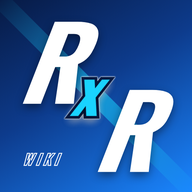
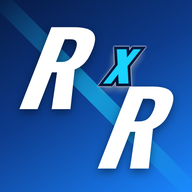
キャラの強いところ・弱いところ、スクリプトのヘッダー位置合わせ、アイコンの調整
- キャラに「強いところ」「弱いところ」を追加し、キャラ詳細に表示
- 縦長のイラストをヘッダーに出すとき、サムネイルの切り抜き位置（顔のあたり）が見えるように位置を合わせる
- アイコン：WIKI をなくし、x を右上にずらす

Claude-Session: https://claude.ai/code/session_01N1eAzdvEhM9HvqUc1xMepk

diff --git a/index.html b/index.html
@@ -66,7 +66,7 @@ button{cursor:pointer}
 
 /* ===== header / hero ===== */
 header.top{position:relative;color:#fff}
-.hero{position:relative;min-height:220px;background-color:#16233f;background-image:linear-gradient(100deg,rgba(5,16,42,.88) 0,rgba(10,30,72,.5) 40%,rgba(10,30,72,0) 70%),var(--hero,none);background-size:cover;background-position:center 45%;overflow:hidden}
+.hero{position:relative;min-height:220px;background-color:#16233f;background-image:linear-gradient(100deg,rgba(5,16,42,.88) 0,rgba(10,30,72,.5) 40%,rgba(10,30,72,0) 70%),var(--hero,none);background-size:cover;background-position:center,var(--heropos,center 45%);overflow:hidden}
 .hero::after{content:"";position:absolute;left:0;right:0;bottom:0;height:90px;background:linear-gradient(180deg,transparent,rgba(20,90,200,.6))}
 .petals{position:absolute;inset:0;pointer-events:none;opacity:.85}
 .brand{position:relative;z-index:1;max-width:1240px;margin:0 auto;padding:26px 20px 52px;display:flex;align-items:flex-end;gap:16px;flex-wrap:wrap}
@@ -149,6 +149,12 @@ main{max-width:1240px;margin:0 auto;padding:22px 20px 40px}
 .note-h::before{content:"";width:10px;height:2px;background:var(--accent)}
 .note-b{white-space:pre-wrap;margin:0 0 12px;font-size:14px}
 .recs{display:flex;gap:6px;flex-wrap:wrap;margin-bottom:12px}
+.sw{display:grid;grid-template-columns:1fr 1fr;gap:8px;margin:10px 0 4px}
+.sw>div{border-left:4px solid;padding:6px 10px;background:var(--field)}
+.sw b{font-size:12.5px;letter-spacing:.06em}.sw p{margin:2px 0 0;font-size:13.5px;line-height:1.6}
+.sw>.sw-s{border-color:var(--good)}.sw-s b{color:var(--good)}
+.sw>.sw-w{border-color:var(--bad)}.sw-w b{color:var(--bad)}
+@media (max-width:820px){.sw{grid-template-columns:1fr}}
 .tfilter{display:flex;flex-wrap:wrap;gap:6px 10px;align-items:center;background:var(--panel);box-shadow:var(--shadow);padding:8px 10px;margin-bottom:8px}
 .tfilter .tfl{font-size:11.5px;font-weight:700;color:var(--accent-ink);letter-spacing:.1em}
 .teams{margin-top:14px;padding-top:12px;border-top:1px solid var(--line)}
@@ -1258,6 +1264,8 @@ function openChar(id){
   const used=new Set();const take=n=>{used.add(n);return v(n);};
   let h=BANNER[c.id]?`<img class="banner" src="${BANNER[c.id]}" alt="">`:"";
   h+=`<h2>${esc(c.name)}</h2><div class="metarow">${c.attr?`${ic(c.attr,"big")}<span class="attr ${esc(c.attr)}">${esc(c.attr)}</span>`:""}${["騎士団","階級","ロール","スタイル","ダメージタイプ","性別","実装日"].map(n=>take(n)?`<span class="m">${ic(v(n),n==="騎士団"?"ord":"")} ${esc(v(n))}</span>`:"").join("")}<span class="m">${esc(c.id)}</span></div>`;
+  {const sg=take("強いところ"),wk=take("弱いところ");
+   if(sg||wk)h+=`<div class="sw">${sg?`<div class="sw-s"><b>強いところ</b><p>${esc(sg).replace(/\n/g,"<br>")}</p></div>`:""}${wk?`<div class="sw-w"><b>弱いところ</b><p>${esc(wk).replace(/\n/g,"<br>")}</p></div>`:""}</div>`;}
   ["No","キャラ名","ID","名前 ひらがな","キャラ","属性"].forEach(n=>used.add(n));
   ["HP最大値","攻撃力最大値","HP初期値","攻撃力初期値","Lv200 HP","Lv200 攻撃力","物理防御","特殊防御","攻撃速度","抵抗値","初期コスト","育成後コスト","再出撃コスト","再出撃時間(S)"].forEach(n=>used.add(n));
   {const col=n=>{const i=d.headers.indexOf(n);return CH.map(x=>i>=0?num(x.row[i]):null);};
@@ -1393,16 +1401,32 @@ let ADMIN=false,MODE="user";const DLCAP=null;
 let CROPS={};const CROPURL={};
 function toast(msg,ms){const el=document.getElementById("toast");el.textContent=msg;el.hidden=false;clearTimeout(toast.t);toast.t=setTimeout(()=>{el.hidden=true;},ms||2600);}
 function setHero(){showHero(HERO);HEROKEY=null;}
-function showHero(u){document.getElementById("hero").style.setProperty("--hero",u?`url("${encodeURI(u)}")`:"none");}
+function showHero(u,kind,key){const el=document.getElementById("hero");el.style.setProperty("--hero",u?`url("${encodeURI(u)}")`:"none");el.style.removeProperty("--heropos");HEROFOCUS=u&&kind?{u,kind,key}:null;heroFocus();}
+/* 縦長のイラストをヘッダー（横長）に出すとき、サムネイルと同じ部分（顔のあたり）が真ん中に来るように位置を合わせる。
+   管理画面で切り抜きを調整していればその位置、なければサムネイルを自動で作るときと同じ位置（上の方）を使う */
+let HEROFOCUS=null;
+function heroFocus(){
+  const f=HEROFOCUS;if(!f)return;const el=document.getElementById("hero");
+  const im=new Image();im.onload=()=>{if(HEROFOCUS!==f)return;
+    const W=im.naturalWidth,H=im.naturalHeight,cw=el.clientWidth,ch=el.clientHeight;if(!W||!H||!cw||!ch)return;
+    const cr=Object.values(CROPS).find(c=>c&&c.kind===f.kind&&c.key===f.key);
+    let c=cr;if(!c){if(W>H*1.2){const cs=.46;c={cs,cx:Math.max(0,.5-cs*H/W/2),cy:.08};}else{const sd=Math.min(W,H)*.9;c={cs:sd/H,cx:(W-sd)/2/W,cy:Math.min(H-sd,H*.04)/H};}}
+    const fx=c.cx+c.cs*H/W/2,fy=c.cy+c.cs/2;
+    const sc=Math.max(cw/W,ch/H),Wd=W*sc,Hd=H*sc;
+    const x=Math.min(0,Math.max(cw-Wd,cw*.62-fx*Wd)),y=Math.min(0,Math.max(ch-Hd,ch*.5-fy*Hd));   // 左はロゴがあるので、少し右寄りに
+    el.style.setProperty("--heropos",`${Math.round(x)}px ${Math.round(y)}px`);};
+  im.src=f.u;
+}
+addEventListener("resize",()=>{clearTimeout(heroFocus.t);heroFocus.t=setTimeout(heroFocus,150);});
 /* ヘッダーの背景：キャラ＝ランダムな覚醒イラスト、スクリプト＝ランダムなスクリプトイラスト、
    封印戦＝その封印戦のテーマイラスト（images.json の sealfull / seals。なければ通常の画像）、ほか＝通常の画像。
    タブを開くたび・再読み込みのたびに選び直す */
 let HEROKEY=null;
 function tabHero(){
   if(MODE==="admin")return;
-  const top=topOf(tab);const rnd=o=>{const v=Object.values(o).filter(Boolean);return v.length?v[Math.floor(Math.random()*v.length)]:"";};
-  if(top==="chara"||top==="script"){if(HEROKEY===top)return;HEROKEY=top;showHero(rnd(top==="chara"?BANNER:SFULL)||HERO);return;}
-  if(top==="seal"){const f=curFloor();const k="seal|"+(f?f.key:"");if(HEROKEY===k)return;HEROKEY=k;showHero(f&&(SEALF[f.floor]||SEAL[f.floor])||HERO);return;}
+  const top=topOf(tab);const rnd=o=>{const ks=Object.keys(o).filter(k=>o[k]);return ks.length?ks[Math.floor(Math.random()*ks.length)]:"";};
+  if(top==="chara"||top==="script"){if(HEROKEY===top)return;HEROKEY=top;const m=top==="chara"?BANNER:SFULL,k=rnd(m);if(k)showHero(m[k],top==="chara"?"char":"script",k);else showHero(HERO);return;}
+  if(top==="seal"){const f=curFloor();const k="seal|"+(f?f.key:"");if(HEROKEY===k)return;HEROKEY=k;if(f&&SEALF[f.floor])showHero(SEALF[f.floor],"seal",f.floor);else showHero(f&&SEAL[f.floor]||HERO);return;}
   if(HEROKEY==="base")return;HEROKEY="base";showHero(HERO);
 }
 function hashId(s){let h1=0x811c9dc5,h2=0x1234567;for(let i=0;i<s.length;i++){const c=s.charCodeAt(i);h1=Math.imul(h1^c,16777619)>>>0;h2=Math.imul(h2^c,2246822519)>>>0;}return h1.toString(36)+h2.toString(36);}
@@ -1667,7 +1691,7 @@ let ADMIN_LOADING=false;
 async function openAdminModule(){
   if(window.RXR_ADMIN){window.RXR_ADMIN.open();return;}
   if(ADMIN_LOADING)return;ADMIN_LOADING=true;
-  try{const m=await import("./js/admin.js?v=24");await m.start(window.RXR);}
+  try{const m=await import("./js/admin.js?v=25");await m.start(window.RXR);}
   catch(e){console.error(e);toast("管理画面を読み込めませんでした",4000);}
   ADMIN_LOADING=false;
 }

diff --git a/js/admin.js b/js/admin.js
@@ -16,6 +16,7 @@ const SCHEMA = {
   chars: [
     { g: "基本", f: [["キャラ", "people"], ["スタイル", "style"], ["ID", "id"], ["キャラ名", "auto"], ["名前 ひらがな", "auto"], ["No", "auto"], ["レアリティ", "opt:レアリティ"], ["限定", "sel:限定"], ["実装日", "date"], ["属性", "opt:属性"], ["ダメージタイプ", "opt:ダメージタイプ"], ["ロール", "opt:ロール"]] },
     { g: "騎士の設定から（自動）", note: "騎士団・階級・性別は「騎士」の設定がそのまま使われます。変えるときは騎士のほうを編集してください。", f: [["騎士団", "master"], ["階級", "master"], ["性別", "master"]] },
+    { g: "強いところ・弱いところ", note: "キャラ詳細の上の方に表示されます。改行もそのまま出ます。", f: [["強いところ", "long"], ["弱いところ", "long"]] },
     { g: "ステータス", f: [["HP初期値", "num"], ["Lv200 HP", "num"], ["HP最大値", "num"], ["攻撃力初期値", "num"], ["Lv200 攻撃力", "num"], ["攻撃力最大値", "num"], ["物理防御", "num"], ["特殊防御", "num"], ["攻撃速度", "opt:攻撃速度"], ["抵抗値", "num"]] },
     { g: "コスト", f: [["初期コスト", "num"], ["育成後コスト", "num"], ["再出撃コスト", "num"], ["再出撃時間(S)", "num"]] },
     { g: "スキル", f: [["スキル名", "text"], ["スキルクールタイム", "num"], ["覚醒1 スキル効果", "long"], ["覚醒7 スキル効果", "long"], ["覚醒13 スキル効果", "long"]] },

diff --git a/images/app/icon-source.html b/images/app/icon-source.html
@@ -6,8 +6,8 @@ html,body{margin:0;background:transparent}
 .ic::before{content:"";position:absolute;left:-120px;top:236px;width:760px;height:46px;background:linear-gradient(90deg,rgba(25,211,255,0),rgba(25,211,255,.6),rgba(25,211,255,0));transform:rotate(45deg)}
 .g{position:absolute;inset:0;transform:scale(.9)}
 .l{position:absolute;color:#fff;font-weight:700;font-style:italic;line-height:1;transform:skewX(-8deg);text-shadow:0 10px 26px rgba(0,0,0,.45)}
-.r1{left:40px;top:-6px;font-size:300px}
-.r2{left:262px;top:196px;font-size:300px}
-.x{left:188px;top:138px;font-size:186px;color:#19d3ff;-webkit-text-stroke:16px #071a44;paint-order:stroke fill;filter:drop-shadow(0 0 2px #fff) drop-shadow(0 0 2px #fff)}
+.r1{left:30px;top:10px;font-size:300px}
+.r2{left:262px;top:186px;font-size:300px}
+.x{left:286px;top:52px;font-size:176px;color:#19d3ff;-webkit-text-stroke:16px #071a44;paint-order:stroke fill;filter:drop-shadow(0 0 2px #fff) drop-shadow(0 0 2px #fff)}
 .w{position:absolute;left:40px;top:410px;font-weight:700;font-size:44px;font-style:italic;letter-spacing:8px;color:transparent;-webkit-text-stroke:2.5px #fff;transform:skewX(-8deg)}
-</style></head><body><div class="ic" id="ic"><div class="g"><div class="l r1">R</div><div class="l r2">R</div><div class="l x">x</div><div class="w">WIKI</div></div></div></body></html>
+</style></head><body><div class="ic" id="ic"><div class="g"><div class="l r1">R</div><div class="l r2">R</div><div class="l x">x</div></div></div></body></html>

diff --git a/CLAUDE.md b/CLAUDE.md
@@ -4,7 +4,7 @@
 
 ## 構成
 - `index.html` … 公開サイト本体（HTML/CSS/JS 1ファイル）。`window.SITE` に GA4 の ID と Firebase（apiKey / projectId）を設定する。一般の閲覧では Firebase SDK は読み込まず、Firestore REST で `public/all`（公開データ一式）を1回読むだけ（読めなければ `public/*` を個別に、それも駄目なら data/*.json）。
-- 公開サイトのメニュー：ホーム（入口・お知らせ・前回の続き）／使い方ガイド／Q&A（運営が管理画面の「ガイド・Q&A」で編集。`public/guide`＝`json`={guide:[{id,title,body}],faq:[{id,q,a}]}、予備は data/guide.json。本文は空行で段落・「・」で箇条書き・「1. 」で番号・**太字**）、キャラクター、スクリプト、バベル、封印戦。最初はホーム（ホームの「前回見ていたページを開く」で前回のページから）。ヘッダー背景はキャラ＝ランダムな覚醒イラスト（banners）、スクリプト＝ランダムなスクリプトイラスト（sfull）、封印戦＝その封印戦のテーマイラスト（sealfull/seals）、ほか＝hero（`tabHero`）。
+- 公開サイトのメニュー：ホーム（入口・お知らせ・前回の続き）／使い方ガイド／Q&A（運営が管理画面の「ガイド・Q&A」で編集。`public/guide`＝`json`={guide:[{id,title,body}],faq:[{id,q,a}]}、予備は data/guide.json。本文は空行で段落・「・」で箇条書き・「1. 」で番号・**太字**）、キャラクター、スクリプト、バベル、封印戦。最初はホーム（ホームの「前回見ていたページを開く」で前回のページから）。ヘッダー背景はキャラ＝ランダムな覚醒イラスト（banners）、スクリプト＝ランダムなスクリプトイラスト（sfull）、封印戦＝その封印戦のテーマイラスト（sealfull/seals）、ほか＝hero（`tabHero`）。縦長のイラストはサムネイルの切り抜き位置（顔のあたり）がヘッダーの見える範囲に来るよう位置合わせ（`heroFocus`）。キャラ詳細には `強いところ`・`弱いところ` を表示。
 - `js/admin.js` … 管理画面（`#admin` / フッターの「管理者ログイン」で読み込む ES module）。Google ログイン、データ編集、読み込み・書き出し、画像、変更履歴、ご意見、アクセス、メンバー。
 - `js/fb.js` … Firebase 初期化（gstatic 10.12.2）とオーナーのメールアドレス。
 - `firestore.rules` … Firestore のセキュリティルール。変えたら Firebase コンソールのルールにも貼る。
@@ -15,7 +15,7 @@
   - babel: `バベル種類` + `階層` が識別子。`攻略のコツ`（旧 `ポイント`。Firestore に古い列名が残っていれば管理画面が自動で付け替える＝js/admin.js の RENAMES）。`解析データ` は1行1効果、`【味方】`などの見出し行で区切る。`おすすめキャラID` はカンマ区切りのキャラID。
   - teams（編成例）: `バベル種類`+`階層`+`編成名` が識別子。`メンバー` は1行1人「キャラID|星|スクリプト名」（最大6人）、`コメント`。管理画面のバベル編集画面か「編成例」で編集し、公開サイトは階層ページに表示。星の下限はキャラの `レアリティ`（R=★1・SR=★2・SSR=★3）。予備は data/teams.json。
 - `data/images.json` … 画像の対応表。`thumbs`/`banners`（キャラID→パス）、`sthumbs`/`sfull`（スクリプト名→パス）、`icons`（属性・ロール・階級・騎士団名→パス）、`hero`。
-- ホーム画面に追加：`manifest.webmanifest` と `images/app/`（icon-192/512・apple-touch-icon・favicon-32。元デザインは images/app/icon-source.html（斜め配置。別案 icon-source-b.html）を Chromium で 512px に撮って縮小）。ホームの「📲 ホーム画面に追加」で Android/PC はインストール、iPhone は手順を表示。
+- ホーム画面に追加：`manifest.webmanifest` と `images/app/`（icon-192/512・apple-touch-icon・favicon-32。元デザインは images/app/icon-source.html（R を斜めに配置・x は右上にずらして縁取り。別案 icon-source-b.html）を Chromium で 512px に撮って縮小）。ホームの「📲 ホーム画面に追加」で Android/PC はインストール、iPhone は手順を表示。
 - `images/` … Web用に縮小した画像（元画像は RxRDBbot/images）。サムネイルは 176px 正方形 webp。
 
 ## Firebase（プロジェクト my-log-vh3o3b / 表示名 RxRbabelDB、Spark プラン）
